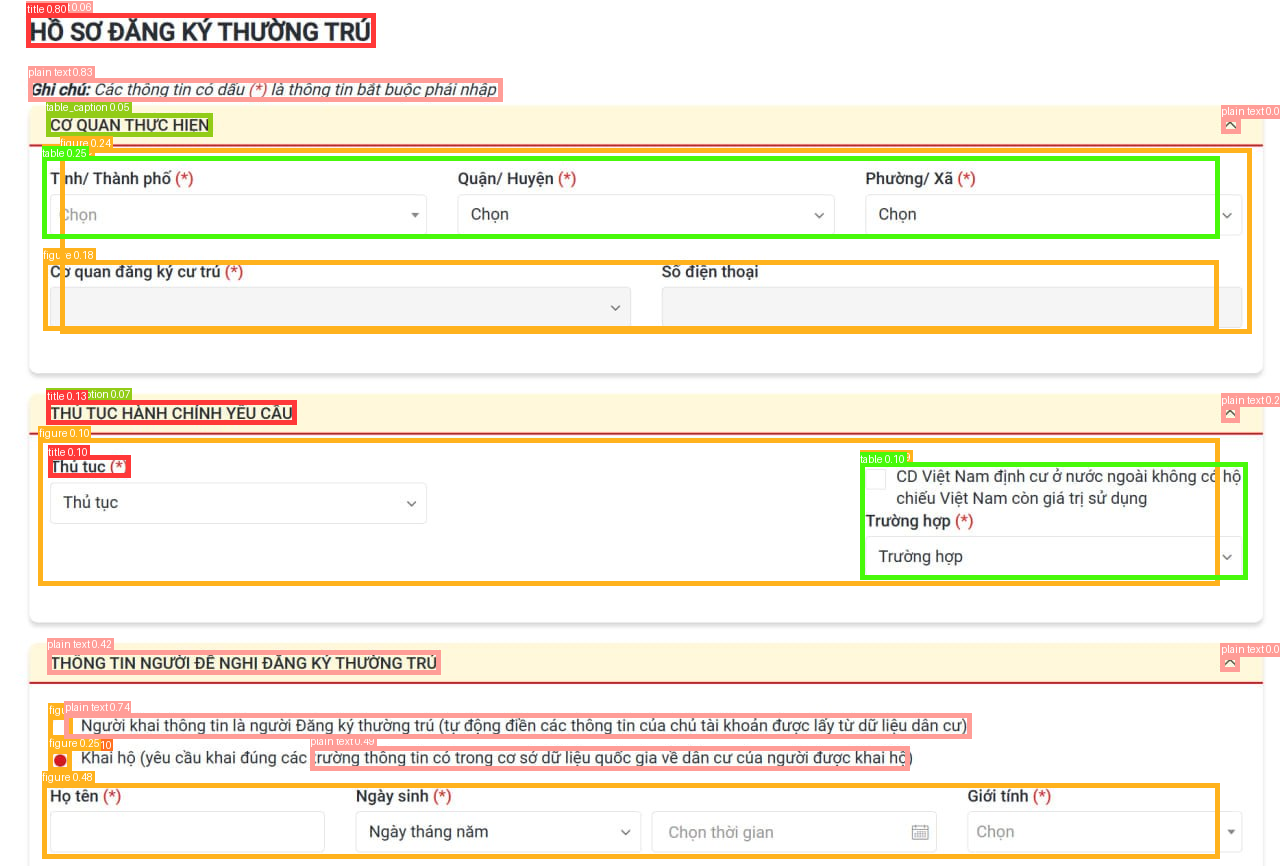
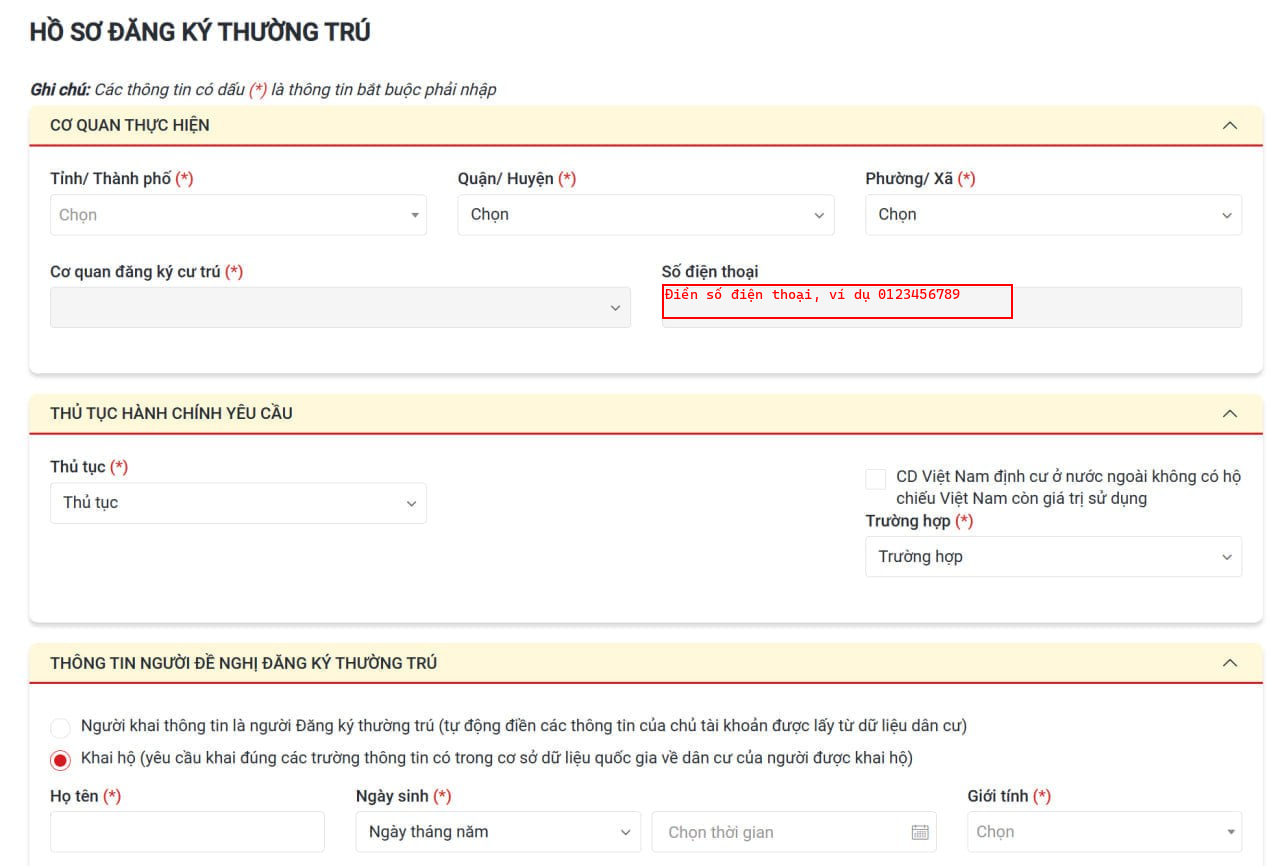
add vietnamese fonts and tesseract ocr to complete the fucking stupid feature

diff --git a/app/api/ocr.py b/app/api/ocr.py
@@ -1,0 +1,152 @@
+import json
+import pytesseract
+
+from langchain import OpenAI
+from typing import List, Optional
+from PIL import Image, ImageFile, ImageDraw, ImageFont
+from config import LLM_MODELS, OUTPUT_HIGHLIGHT_PICTURE, USER_INPUT_PICTURE, logger
+
+DISTANCE_X = 10
+DISTANCE_Y = 20
+
+class TextObject:
+    text: str
+    x: int
+    y: int
+    width: int
+    height: int
+    def __init__(self, text: str, x: int, y: int, width: int, height: int):
+        self.text = text
+        self.x = x
+        self.y = y
+        self.width = width
+        self.height = height
+
+    def __repr__(self):
+        return f"TextObject(text={self.text}, x={self.x}, y={self.y}, width={self.width}, height={self.height})"
+
+class HightLightQueryResponse:
+    def __init__(self, text_object: TextObject, instruction: str):
+        self.text_object = text_object
+        self.instruction = instruction
+    
+    def __repr__(self):
+        return f"HightLightQueryResponse(textObject={self.text_object}, instruction={self.instruction})"
+        
+def highlight_query(query: str, model: Optional[LLM_MODELS] = LLM_MODELS.GPT_35_TURBO):
+    image = Image.open(USER_INPUT_PICTURE)
+    
+    texts = get_texts_from_ocr(image)
+    
+    response: HightLightQueryResponse = get_instruction_from_llm(texts, query)
+    
+    obj = response.text_object
+    instructions = response.instruction
+    
+    converted_image = image.convert("RGB")
+    highlight_boxes_with_instruction(converted_image, obj, instructions)
+    
+    
+    
+def highlight_boxes_with_instruction(image: Image.Image, obj: TextObject, instructions: str):
+    x, y, w, h = obj.x, obj.y, obj.width, obj.height
+    
+    # Draw rectangle
+    draw = ImageDraw.Draw(image)
+    x1, y1, x2, y2 = x, y + h + 6, x + 350, y + h + 40
+
+    # Load font (must support Vietnamese)
+    font = ImageFont.truetype("CaskaydiaCoveNerdFont-Regular.ttf", 14)
+
+    # Draw text label
+    draw.text((x1 + 3, y1 + 2), instructions, font=font, fill="red")
+
+    # Draw bounding box
+    draw.rectangle([x1, y1, x2, y2], outline="red", width=2)
+    
+    image.save(OUTPUT_HIGHLIGHT_PICTURE)
+
+    
+
+def get_texts_from_ocr(image: ImageFile):
+
+    # Run Tesseract OCR with bounding box info
+    ocr_data = pytesseract.image_to_data(image, lang='vie', output_type=pytesseract.Output.DICT)
+
+    # Loop over each word and get its bounding box
+    n_boxes = len(ocr_data['text'])
+    
+    results: List[TextObject] = []
+    
+    for i in range(n_boxes):
+        if int(ocr_data['conf'][i]) > 0:  # Filter out low-confidence or empty results
+            text = ocr_data['text'][i].strip()
+            if text:
+                x, y, w, h = (ocr_data['left'][i], ocr_data['top'][i],
+                            ocr_data['width'][i], ocr_data['height'][i])
+                textObject = TextObject(text, x, y, w, h)
+                results.append(textObject)
+    
+    return results
+
+def get_instruction_from_llm(texts: List[TextObject], query: str, model: Optional[LLM_MODELS] = LLM_MODELS.GPT_35_TURBO,):
+        system_prompt = [
+            {
+                "role": "system",
+                "content": f"""
+    You are a helpful assistant that highlights the most relevant text in an image based on user queries.
+    Your task is to analyze the provided list of detected texts and the user's query, then return
+    the one in that list which is the most relevant to the query. Here is the json format of it:
+        {{
+            "textObject": {{
+                "text": "The text to highlight",
+                "x": 100,
+                "y": 150,
+                "width": 200,
+                "height": 50
+            }},
+            "instruction": "example of the necessary information"
+        }}
+    Examples about instruction:
+        Example 1:
+            user query: Hãy chỉ cho tôi vùng để điển thông tin về họ và tên
+            instruction: Điền họ và tên, ví dụ Nguyễn Văn An
+            
+        Example 2:
+            user query: Hãy chỉ cho tôi vùng để điền thông tin về số điện thoại
+            instruction: Điền số điện thoại, ví dụ 0123456789
+    
+    If you cannot find any relevant text, return an empty object.
+    You should return the instruction in Vietnamese.
+    
+    List of detected texts:
+    {', '.join([f'"{text}"' for text in texts])}
+    
+    Current user query: "{query}"
+    """,
+            }
+        ]
+    
+        llm = OpenAI(
+            temperature=0,
+            model_name=model.model_name
+            if isinstance(model, LLM_MODELS)
+            else LLM_MODELS.GPT_35_TURBO.model_name,
+            prefix_messages=system_prompt,
+        )
+    
+        user_prompt = "Get the most relevant text object from the list above and return it in the specified format."
+        response = json.loads(llm(prompt=user_prompt))
+        
+        json_text_object = response.get("textObject", {})
+        instruction = response.get("instruction", "")
+        
+        text_object = TextObject(
+            text=json_text_object.get("text", ""),
+            x=json_text_object.get("x", None),
+            y=json_text_object.get("y", None),
+            width=json_text_object.get("width", None),
+            height=json_text_object.get("height", None),
+        )
+        logger.debug(f"highlight query response: {response}")
+        return HightLightQueryResponse(text_object, instruction)

diff --git a/app/api/llm.py b/app/api/llm.py
@@ -10,7 +10,7 @@ from fastapi import HTTPException
 from uuid import UUID, uuid4
 from langchain.text_splitter import CharacterTextSplitter, MarkdownTextSplitter
 from sqlmodel import Session, text
-from detection import highlight_input_boxes
+from ocr import highlight_query
 from util import sanitize_input, sanitize_output
 from langchain import OpenAI
 from typing import List, Union, Optional, Dict, Tuple, Any
@@ -83,6 +83,7 @@ procedures = [
     "hướng dẫn",
     "cơ quan",
     "cổng dịch vụ công",
+    "điền"
 ]
 
 
@@ -321,15 +322,15 @@ def chat_query(
                 is_escalate = llm_response.get("is_escalate", False)
                 images_list = llm_response.get("images_list", [])
                 response_message = llm_response.get("message", None)
-                is_highlight = True
+                is_highlight = llm_response.get("message", None)
 
-                if ENABLE_CACHE_ANSWER:
+                if ENABLE_CACHE_ANSWER and not is_highlight:
                     store_answered_question(
                         question=query_str,
                         answer=response_message,
                         images_list=images_list,
                     )
-                    logger.debug(f"LLM response: {str(response_message)}")
+                logger.debug(f"LLM response: {str(response_message)}")
             else:
                 logger.info("🚫📝 No similar nodes found, returning default response")
                 response_message = "Xin lỗi, tôi không thể hỗ trợ bạn."
@@ -339,7 +340,7 @@ def chat_query(
     chat_history[user.identifier].chat_memory.add_ai_message(response_message)
 
     if is_highlight:
-        highlight_input_boxes()
+        highlight_query(query=query_str, model=model)
 
     # -----------------------------------
     # Calculate input and response tokens
@@ -433,10 +434,10 @@ I will answer the user's questions using only the [DOCUMENT] provided. I will ab
 - I never lie or invent answers not explicitly provided in [DOCUMENT]
 - If I am unsure of the answer response or the answer is not explicitly contained in [DOCUMENT], I will say: "Xin lỗi, tôi không thể hỗ trợ bạn trong lĩnh vực này.".
 - I will always respond in JSON format with the following keys:
-  + "message" my full, clear, concise answer in Vietnamese based only on the [DOCUMENT]; it must not contain image links/paths. If the question is to highlight certain areas, just reply: " Đây là các vị trí được khoanh vùng: "
+  + "message" my full, clear, concise answer in Vietnamese based only on the [DOCUMENT]; it must not contain image links/paths. If the question is to highlight or guide instructions at certain areas in an image, jjust give a simple reply like: "Đây là các vị trí cần điền thông tin: "
   + "is_escalate" a boolean, returning false if I am unsure and true if I do have a relevant answer
   + "images_list" a list of image URLs or file paths from the [DOCUMENT] that are relevant to the users question; they serve as visual aids but never as replacements for "message".
-  + "is_highlight" a boolean, returning true if the question is to highlight certain areas in a given picture
+  + "is_highlight" a boolean, returning true if the question is to highlight or to guide instructions at certain areas in a given picture.
 - I will only answer in Vietnamese
 """,
         }

diff --git a/app/api/config.py b/app/api/config.py
@@ -68,6 +68,8 @@ OUTPUT_HIGHLIGHT_PICTURE = os.getenv(
     "OUTPUT_HIGHLIGHT_PICTURE", "output_highlight_picture.png"
 )
 
+OPENAI_API_KEY = os.getenv("OPENAI_API_KEY", None)
+
 # Database configurations
 POSTGRES_USER = os.getenv("POSTGRES_USER", "postgres")
 POSTGRES_PASSWORD = os.getenv("POSTGRES_PASSWORD", "postgres")